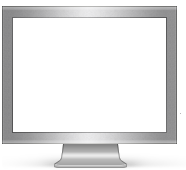
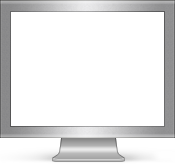
Bug 386163 - 'Set Desktop Background' refactoring: use canvas in all cases, support widescreen previews p=Dao Gottwald <dao@design-noir.de> r=mano, ui-r=mconnor

Changed region(s): [[0.0, 0.0, 1.0, 1.0]]

diff --git a/browser/components/shell/content/setDesktopBackground.js b/browser/components/shell/content/setDesktopBackground.js
@@ -21,7 +21,7 @@
 # Contributor(s):
 #   Blake Ross <blake@blakeross.com>
 #   Ben Goodger <ben@mozilla.org>
-#   Dao Gottwald <dao@design-noir.de>
+#   Dão Gottwald <dao@design-noir.de>
 #
 # Alternatively, the contents of this file may be used under the terms of
 # either the GNU General Public License Version 2 or later (the "GPL"), or
@@ -37,79 +37,68 @@
 #
 # ***** END LICENSE BLOCK *****
 
-const kXUL_NS           = "http://www.mozilla.org/keymaster/gatekeeper/there.is.only.xul";
-const kHTML_NS          = "http://www.w3.org/1999/xhtml";
-const kIShellService    = Components.interfaces.nsIShellService;
-#ifdef XP_MACOSX
-const kIMacShellService = Components.interfaces.nsIMacShellService;
-#endif
+var Ci = Components.interfaces;
 
 var gSetBackground = {
-  _position         : kIShellService.BACKGROUND_STRETCH,
-  _monitor          : null,
-  _image            : null,
-  _backgroundColor  : 0,
-
 #ifndef XP_MACOSX
-  // Converts a color string in the format "#RRGGBB" to an integer.
-  _hexStringToLong: function (aString)
-  {
-    return parseInt(aString.substring(1,3), 16) << 16 | 
-           parseInt(aString.substring(3,5), 16) << 8 |
-           parseInt(aString.substring(5,7), 16);
-  },
-
-  _rgbToHex: function(aR, aG, aB) 
-  {
-    var rHex = aR.toString(16).toUpperCase();
-    var gHex = aG.toString(16).toUpperCase();
-    var bHex = aB.toString(16).toUpperCase();
-
-    if (rHex.length == 1) rHex ='0' + rHex;
-    if (gHex.length == 1) gHex ='0' + gHex;
-    if (bHex.length == 1) bHex ='0' + bHex;
-
-    return '#' + rHex + gHex + bHex;
-  },
+  _position        : "",
+  _backgroundColor : 0,
+#else
+  _position        : "STRETCH",
 #endif
+  _screenWidth     : 0,
+  _screenHeight    : 0,
+  _image           : null,
+  _canvas          : null,
 
   get _shell()
   {
     return Components.classes["@mozilla.org/browser/shell-service;1"]
-                     .getService(Components.interfaces.nsIShellService);
+                     .getService(Ci.nsIShellService);
   },
 
   load: function ()
   {
-    this._monitor = document.getElementById("monitor");
+    this._canvas = document.getElementById("screen");
+    this._screenWidth = screen.width;
+    this._screenHeight = screen.height;
 #ifdef XP_MACOSX
     document.documentElement.getButton("accept").hidden = true;
 #endif
-    this.init(window.arguments[0]);
+    if (this._screenWidth / this._screenHeight >= 1.6)
+      document.getElementById("monitor").setAttribute("aspectratio", "16:10");
+
+    // make sure that the correct dimensions will be used
+    setTimeout(function(self) {
+      self.init(window.arguments[0]);
+    }, 0, this);
   },
 
   init: function (aImage)
   {
     this._image = aImage;
 
+    // set the size of the coordinate space
+    this._canvas.width = this._canvas.clientWidth;
+    this._canvas.height = this._canvas.clientHeight;
+
+    var ctx = this._canvas.getContext("2d");
+    ctx.scale(this._canvas.clientWidth / this._screenWidth, this._canvas.clientHeight / this._screenHeight);
+
 #ifndef XP_MACOSX
     this._initColor();
-    var position = parseInt(document.getElementById("menuPosition").value);
 #else
     // Make sure to reset the button state in case the user has already
-    // set an image as their desktop background. 
+    // set an image as their desktop background.
     var setDesktopBackground = document.getElementById("setDesktopBackground");
     setDesktopBackground.hidden = false;
     var bundle = document.getElementById("backgroundBundle");
     setDesktopBackground.label = bundle.getString("DesktopBackgroundSet");
     setDesktopBackground.disabled = false;
 
-    var showDesktopPreferences = document.getElementById("showDesktopPreferences");
-    showDesktopPreferences.hidden = true;
-
-    var position = kIShellService.BACKGROUND_STRETCH;
+    document.getElementById("showDesktopPreferences").hidden = true;
 #endif
-    this.updatePosition(position);
+    this.updatePosition();
   },
 
 #ifndef XP_MACOSX
@@ -128,126 +117,87 @@ var gSetBackground = {
     var colorpicker = document.getElementById("desktopColor");
     colorpicker.color = this._backgroundColor;
   },
-#endif
 
+  updateColor: function (aColor)
+  {
+    this._backgroundColor = aColor;
+    this._canvas.style.backgroundColor = aColor;
+  },
+
+  // Converts a color string in the format "#RRGGBB" to an integer.
+  _hexStringToLong: function (aString)
+  {
+    return parseInt(aString.substring(1,3), 16) << 16 |
+           parseInt(aString.substring(3,5), 16) << 8 |
+           parseInt(aString.substring(5,7), 16);
+  },
+
+  _rgbToHex: function (aR, aG, aB)
+  {
+    return "#" + [aR, aG, aB].map(function(aInt) aInt.toString(16).replace(/^(.)$/, "0$1"))
+                             .join("").toUpperCase();
+  },
+#else
   observe: function (aSubject, aTopic, aData)
   {
     if (aTopic == "shell:desktop-background-changed") {
-      var setDesktopBackground = document.getElementById("setDesktopBackground");
-      setDesktopBackground.hidden = true;
+      document.getElementById("setDesktopBackground").hidden = true;
+      document.getElementById("showDesktopPreferences").hidden = false;
 
-      var showDesktopPreferences = document.getElementById("showDesktopPreferences");
-      showDesktopPreferences.hidden = false;
-
-      var os = Components.classes["@mozilla.org/observer-service;1"]
-                         .getService(Components.interfaces.nsIObserverService);
-      os.removeObserver(this, "shell:desktop-background-changed");
+      Components.classes["@mozilla.org/observer-service;1"]
+                .getService(Ci.nsIObserverService)
+                .removeObserver(this, "shell:desktop-background-changed");
     }
   },
 
-#ifdef XP_MACOSX
-  setDesktopBackground: function()
+  showDesktopPrefs: function()
   {
-    var os = Components.classes["@mozilla.org/observer-service;1"]
-                       .getService(Components.interfaces.nsIObserverService);
-    os.addObserver(this, "shell:desktop-background-changed", false);
+    this._shell.openApplication(Ci.nsIMacShellService.APPLICATION_DESKTOP);
+  },
+#endif
+
+  setDesktopBackground: function ()
+  {
+#ifndef XP_MACOSX
+    document.persist("menuPosition", "value");
+    this._shell.desktopBackgroundColor = this._hexStringToLong(this._backgroundColor);
+#else
+    Components.classes["@mozilla.org/observer-service;1"]
+              .getService(Ci.nsIObserverService)
+              .addObserver(this, "shell:desktop-background-changed", false);
 
     var bundle = document.getElementById("backgroundBundle");
     var setDesktopBackground = document.getElementById("setDesktopBackground");
     setDesktopBackground.disabled = true;
     setDesktopBackground.label = bundle.getString("DesktopBackgroundDownloading");
-
-    this._shell.setDesktopBackground(this._image, this._position);
-  },
-  
-  showDesktopPrefs: function()
-  {
-    this._shell.openApplication(kIMacShellService.APPLICATION_DESKTOP);
-  },
-#else
-  setDesktopBackground: function () 
-  {
-    this._shell.setDesktopBackground(this._image, this._position);
-    this._shell.desktopBackgroundColor = this._hexStringToLong(this._backgroundColor);
-    document.persist("menuPosition", "value");
-  },
 #endif
+    this._shell.setDesktopBackground(this._image,
+                                     Ci.nsIShellService["BACKGROUND_" + this._position]);
+  },
 
-  updateColor: function (color)
+  updatePosition: function ()
   {
+    var ctx = this._canvas.getContext("2d");
+    ctx.clearRect(0, 0, this._screenWidth, this._screenHeight);
+
 #ifndef XP_MACOSX
-    this._backgroundColor = color;
-    this._monitor.style.backgroundColor = color;
+    this._position = document.getElementById("menuPosition").value;
 #endif
-  },
-  
-  updatePosition: function (aPosition)
-  {
-    if (this._monitor.hasChildNodes())
-      this._monitor.removeChild(this._monitor.firstChild);
-      
-    this._position = aPosition;
-    if (this._position == kIShellService.BACKGROUND_TILE)
-      this._tileImage();
-    else if (this._position == kIShellService.BACKGROUND_STRETCH)
-      this._stretchImage();
-    else
-      this._centerImage();
-  },
 
-  _createImage: function ()
-  {
-    const nsIImageLoadingContent = Components.interfaces.nsIImageLoadingContent;
-    if (!(this._image instanceof nsIImageLoadingContent))
-        return false;
-
-    var request = this._image.QueryInterface(nsIImageLoadingContent)
-                             .getRequest(nsIImageLoadingContent.CURRENT_REQUEST);
-    if (!request)
-      return false;
-
-    var imgURI = this._image.currentURI;
-    if (imgURI.schemeIs("javascript"))
-      return false;
-
-    var img = document.createElementNS(kXUL_NS, "image");
-    img.setAttribute("src", imgURI.spec);
-    return img;
-  },
-
-  _stretchImage: function ()
-  {
-    var img = this._createImage();
-    img.width = this._monitor.boxObject.width;
-    img.height = this._monitor.boxObject.height;
-    this._monitor.appendChild(img);
-  },
-
-  _tileImage: function ()
-  {
-    var canvas = document.createElementNS(kHTML_NS, "canvas");
-    var width = this._monitor.boxObject.width;
-    var height = this._monitor.boxObject.height;
-    canvas.width = width;
-    canvas.height = height;
-
-    var ctx = canvas.getContext("2d");
-    ctx.fillStyle = ctx.createPattern(this._image, "repeat");
-    ctx.scale(width / screen.width, height / screen.height);
-    ctx.fillRect(0, 0, screen.width, screen.height);
-
-    this._monitor.appendChild(canvas);
-  },
-
-  _centerImage: function ()
-  {
-    var img = this._createImage();
-    // Use naturalHeight/Width here so we don't scale an image improperly in
-    // the preview window if the image is resized in the browser window.
-    var width = this._image.naturalWidth * this._monitor.boxObject.width / screen.width;
-    var height = this._image.naturalHeight * this._monitor.boxObject.height / screen.height;
-    img.width = Math.floor(width);
-    img.height = Math.floor(height);
-    this._monitor.appendChild(img);
+    switch (this._position) {
+      case "TILE":
+        ctx.save();
+        ctx.fillStyle = ctx.createPattern(this._image, "repeat");
+        ctx.fillRect(0, 0, this._screenWidth, this._screenHeight);
+        ctx.restore();
+        break;
+      case "STRETCH":
+        ctx.drawImage(this._image, 0, 0, this._screenWidth, this._screenHeight);
+        break;
+      case "CENTER":
+        var x = (this._screenWidth - this._image.naturalWidth) / 2;
+        var y = (this._screenHeight - this._image.naturalHeight) / 2;
+        ctx.drawImage(this._image, x, y);
+    }
   }
 };

diff --git a/browser/themes/winstripe/browser/setDesktopBackground.css b/browser/themes/winstripe/browser/setDesktopBackground.css
@@ -1,17 +1,14 @@
 @namespace url("http://www.mozilla.org/keymaster/gatekeeper/there.is.only.xul");
+@namespace html url("http://www.w3.org/1999/xhtml");
 
-#monitor {
+html|canvas#screen {
   margin: 12px 11px 32px;
-  width: 153px;
-  height: 114px;
-  overflow: hidden;
 }
 
-#monitorImage {
+#monitor {
   list-style-image: url("chrome://browser/skin/monitor.png");
 }
 
-#noPreviewAvailable {
-  background-color: white !important;
-  font-size: 12px !important;
+#monitor[aspectratio="16:10"] {
+  list-style-image: url("chrome://browser/skin/monitor_16-10.png");
 }

diff --git a/browser/themes/pinstripe/browser/setDesktopBackground.css b/browser/themes/pinstripe/browser/setDesktopBackground.css
@@ -1,12 +1,14 @@
 @namespace url("http://www.mozilla.org/keymaster/gatekeeper/there.is.only.xul");
+@namespace html url("http://www.w3.org/1999/xhtml");
 
-#monitor {
-  margin: 18px 20px 38px 13px;
-  width: 153px;
-  height: 114px;
-  overflow: hidden;
+html|canvas#screen {
+  margin: 12px 11px 38px;
 }
 
-#monitorImage {
+#monitor {
   list-style-image: url("chrome://browser/skin/monitor.png");
+}
+
+#monitor[aspectratio="16:10"] {
+  list-style-image: url("chrome://browser/skin/monitor_16-10.png");
 }
